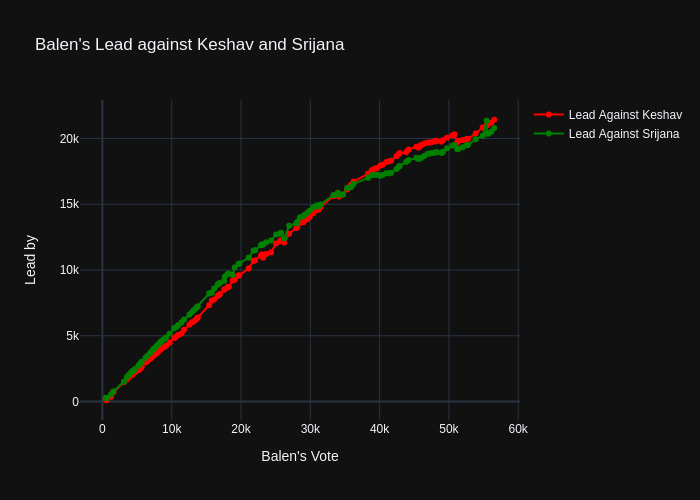
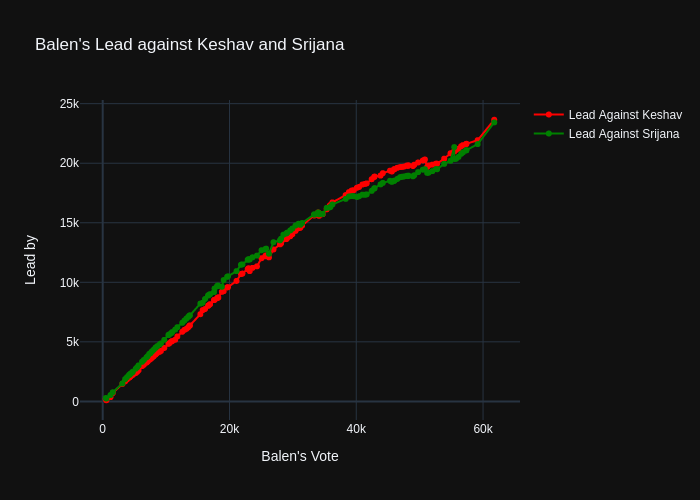
Final Count - Congrats Balen :tada: :tada:

diff --git a/README.md b/README.md
@@ -1,4 +1,4 @@
-## Last Update: 5/25/2022 14:34
+## Last Update: 5/26/2022 23:00
 
 ## Congratulations Balen!!! :tada:
 ![ScreenShot](final.jpg)
